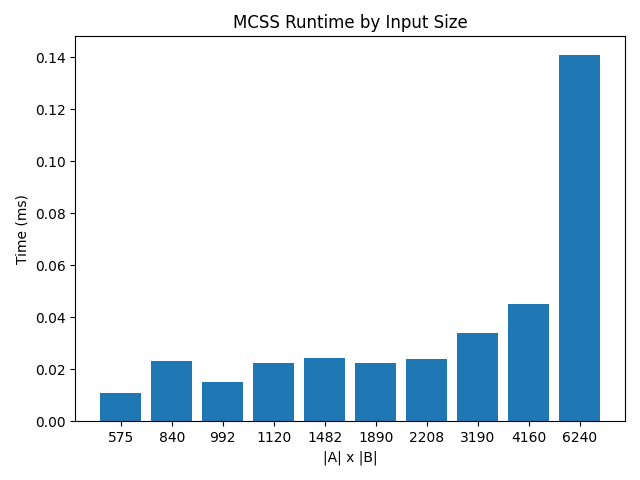
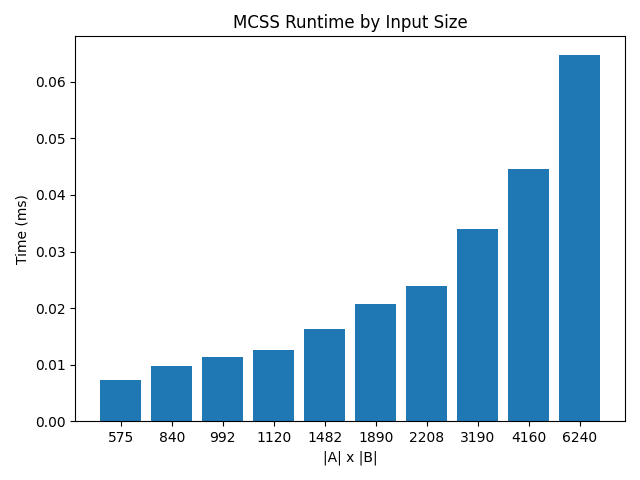
testing refactoring of code

diff --git a/src/q1/timing.py b/src/q1/timing.py
@@ -1,31 +1,36 @@
 from time import perf_counter
-from main import dp
+from ..main import dp
 from pathlib import Path
 
 BASE_DIR = Path(__file__).parent
 input_dir = BASE_DIR / "input"
+output_dir = BASE_DIR / "output"
 
-def time_test(i):
-    with open(f"{input_dir}/input_{i}.txt", 'r') as f:
-        n = int(f.readline())
-        letter_scores = {}
-        for _ in range(n):
-            line = f.readline().split()
-            letter_scores[line[0]] = int(line[1])
-        
-        A = f.readline().strip()
-        B = f.readline().strip()
-        start = perf_counter()
-        res, substr = dp(n, letter_scores, A, B)
-        end = perf_counter()
-        runtime_ms = (end - start) * 100
-
-    with open(f"src/output/timing_results.txt", "a") as f:
-        f.write(f"{runtime_ms} {len(A)} {len(B)}\n")
+def time_test():
+    results = []
+    for i in range(1, 11):
+        with open(f"{input_dir}/input_{i}.txt", 'r') as f:
+            n = int(f.readline())
+            letter_scores = {}
+            for _ in range(n):
+                line = f.readline().split()
+                letter_scores[line[0]] = int(line[1])
+            
+            A = f.readline().strip()
+            B = f.readline().strip()
+            start = perf_counter()
+            res, substr = dp(n, letter_scores, A, B)
+            end = perf_counter()
+            runtime_ms = (end - start) * 100
+            results.extend([runtime_ms, A, B])
+    with open(f"{output_dir}/timing_results.txt", "w"):
+        pass
+    for i in range(0, 30, 3):
+        with open(f"{output_dir}/timing_results.txt", "a") as f:
+            f.write(f"{results[i]} {len(results[i+1])} {len(results[i + 2])}\n")
 
 def main():
-    for i in range(1, 11):
-        time_test(i)
+    time_test()
 
 if __name__ == "__main__":
     main()
